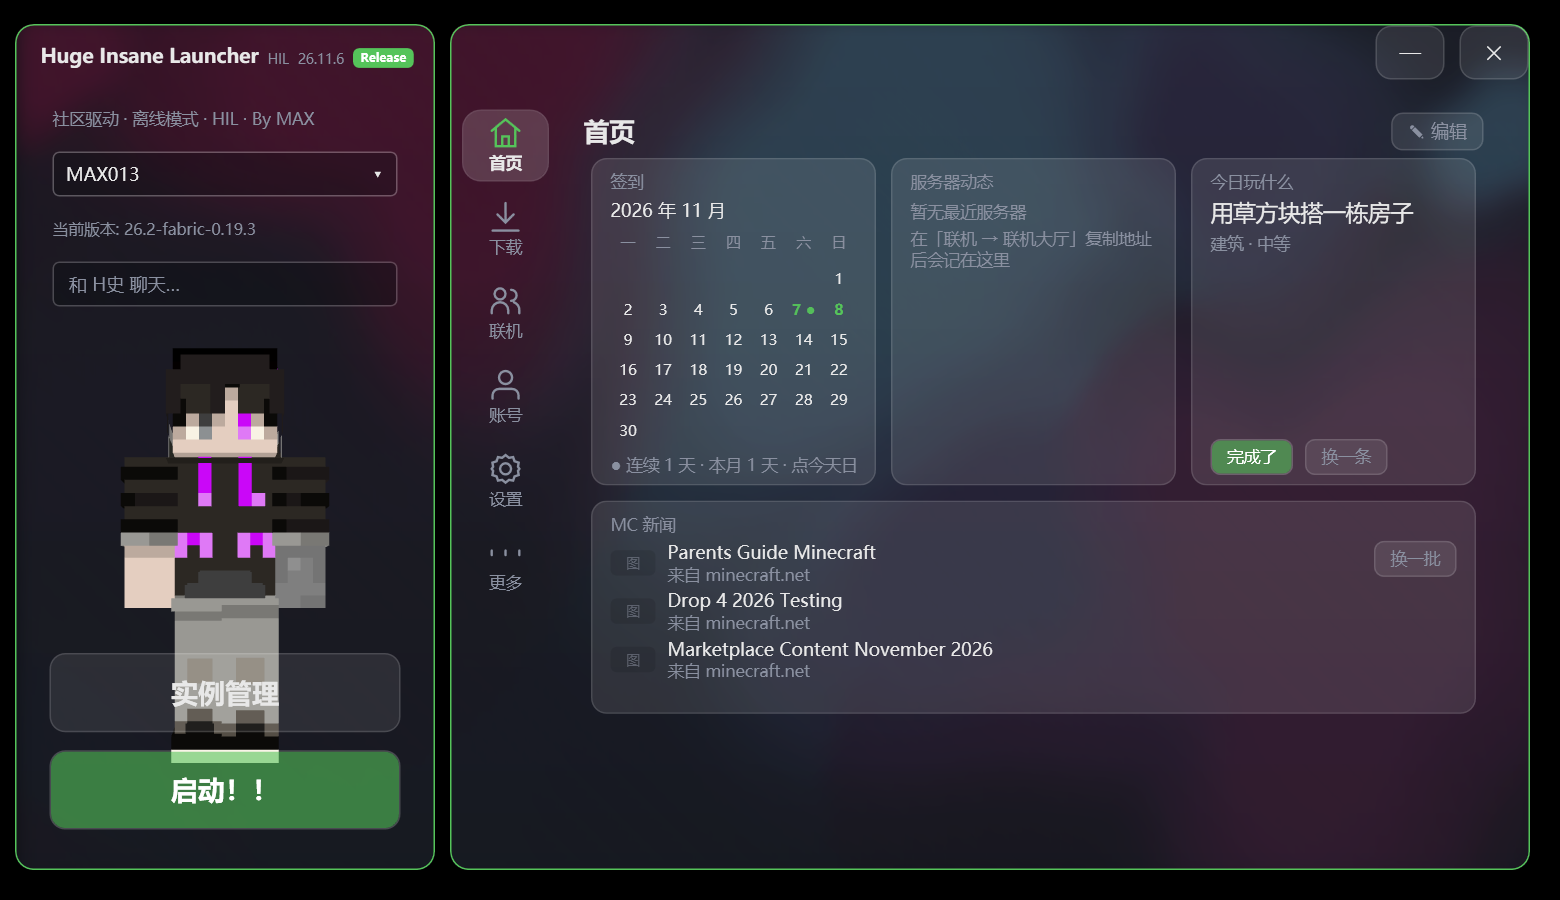
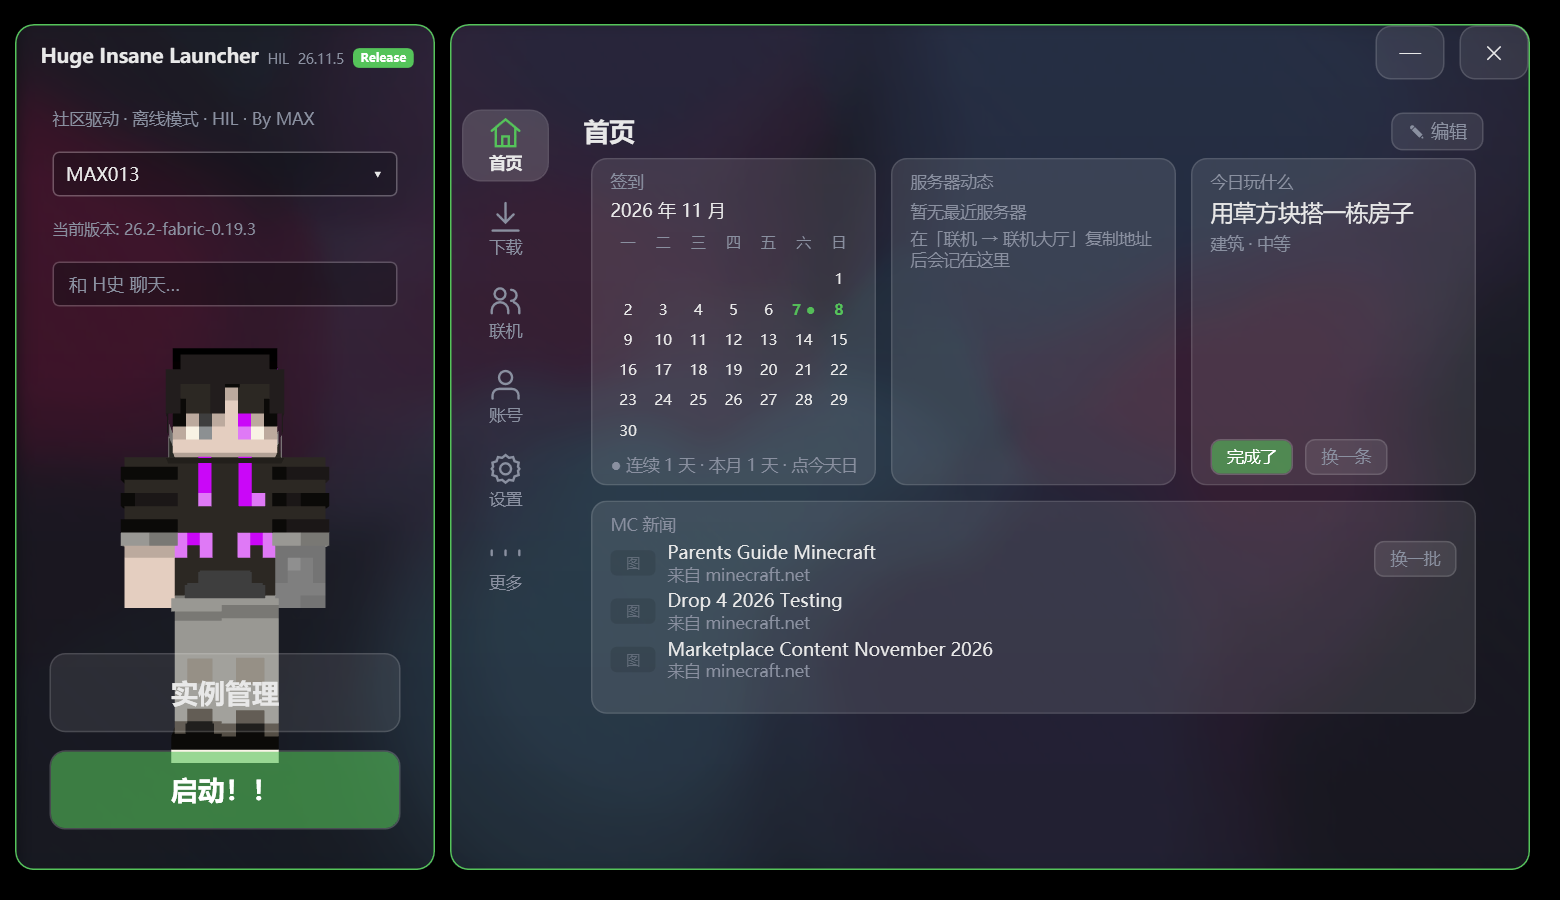
hotfix(26.11.5): 分块下载线程被注释吃掉导致下载必崩，恢复并行分块 + 下载线程异常兜底

diff --git a/website/index.html b/website/index.html
@@ -436,7 +436,7 @@
       <svg viewBox="0 0 16 16" aria-hidden="true"><path d="M8 0C3.58 0 0 3.58 0 8c0 3.54 2.29 6.53 5.47 7.59.4.07.55-.17.55-.38 0-.19-.01-.82-.01-1.49-2.01.37-2.53-.49-2.69-.94-.09-.23-.48-.94-.82-1.13-.28-.15-.68-.52-.01-.53.63-.01 1.08.58 1.23.82.72 1.21 1.87.87 2.33.66.07-.52.28-.87.51-1.07-1.78-.2-3.64-.89-3.64-3.95 0-.87.31-1.59.82-2.15-.08-.2-.36-1.02.08-2.12 0 0 .67-.21 2.2.82.64-.18 1.32-.27 2-.27.68 0 1.36.09 2 .27 1.53-1.04 2.2-.82 2.2-.82.44 1.1.16 1.92.08 2.12.51.56.82 1.27.82 2.15 0 3.07-1.87 3.75-3.65 3.95.29.25.54.73.54 1.48 0 1.07-.01 1.93-.01 2.2 0 .21.15.46.55.38A8.013 8.013 0 0 0 16 8c0-4.42-3.58-8-8-8z"/></svg>
       <span>GitHub</span>
     </a>
-    <a class="btn nav-dl" href="HugeInsaneLauncher.exe" download="HugeInsaneLauncher-26.11.6-Release.exe">⬇ 下载</a>
+    <a class="btn nav-dl" href="HugeInsaneLauncher.exe" download="HugeInsaneLauncher-26.11.5-Release.exe">⬇ 下载</a>
   </div>
 </header>
 
@@ -446,14 +446,14 @@
   <h1 class="rv">Huge Insane Launcher</h1>
   <p class="sub rv">3.2MB 单文件，双击即玩的 Minecraft 启动器</p>
   <div class="cta-row rv">
-    <a class="btn hero-dl" href="HugeInsaneLauncher.exe" download="HugeInsaneLauncher-26.11.6-Release.exe">⬇ 下载</a>
+    <a class="btn hero-dl" href="HugeInsaneLauncher.exe" download="HugeInsaneLauncher-26.11.5-Release.exe">⬇ 下载</a>
     <a class="more-link" href="#highlights">看看亮点 &gt;</a>
   </div>
   <p class="reassure rv">免费 · 免安装 · 离线可玩 · Windows</p>
   <div class="hero-shot rv">
     <img class="shot-d" src="screenshot-dark.png" alt="HIL 界面截图（深色）">
     <img class="shot-l" src="screenshot-light.png" alt="HIL 界面截图（浅色）">
-    <span class="ver-badge">26.11.6 Release</span>
+    <span class="ver-badge">26.11.5 Release</span>
   </div>
   <div class="numbers rv">
     <div class="n"><b>3.2MB</b><span>单文件体积</span></div>
@@ -656,7 +656,7 @@
 <!-- ================= 收尾 ================= -->
 <section id="final">
   <h2 class="rv">现在，轮到你了。</h2>
-  <a class="btn rv" href="HugeInsaneLauncher.exe" download="HugeInsaneLauncher-26.11.6-Release.exe">⬇ 下载 HIL 26.11.6 Release</a>
+  <a class="btn rv" href="HugeInsaneLauncher.exe" download="HugeInsaneLauncher-26.11.5-Release.exe">⬇ 下载 HIL 26.11.5 Release</a>
   <p class="rv">3.2MB · Windows · 若浏览器提示「保留此文件」请选择保留</p>
 </section>
 

diff --git a/HugeInsaneLauncher/src/ui/MainWindow.cs b/HugeInsaneLauncher/src/ui/MainWindow.cs
@@ -19,7 +19,7 @@ namespace HugeLauncher.Ui
     {
         const string BrandName = "Huge Insane Launcher";
         // 版本号规则：年份.月份.该月第几个版本（当月首个省略末项，第二个为 1）
-        public const string Version = "26.11.6";
+        public const string Version = "26.11.5";
         public const string Channel = "Release";   // 渠道徽章：Alpha/Beta/Release
 
         Config cfg;
